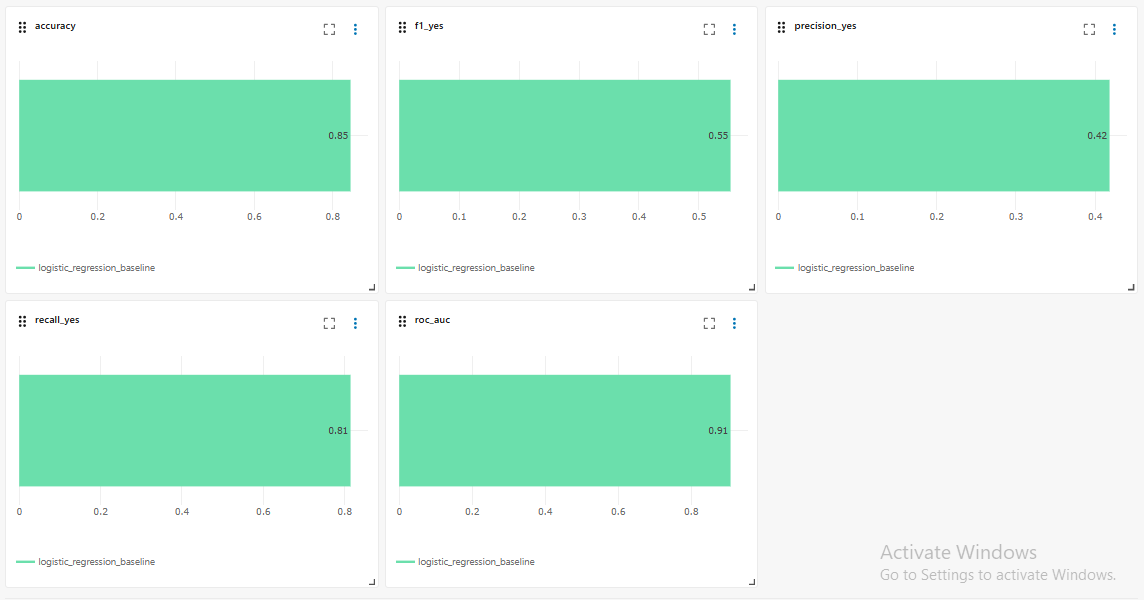
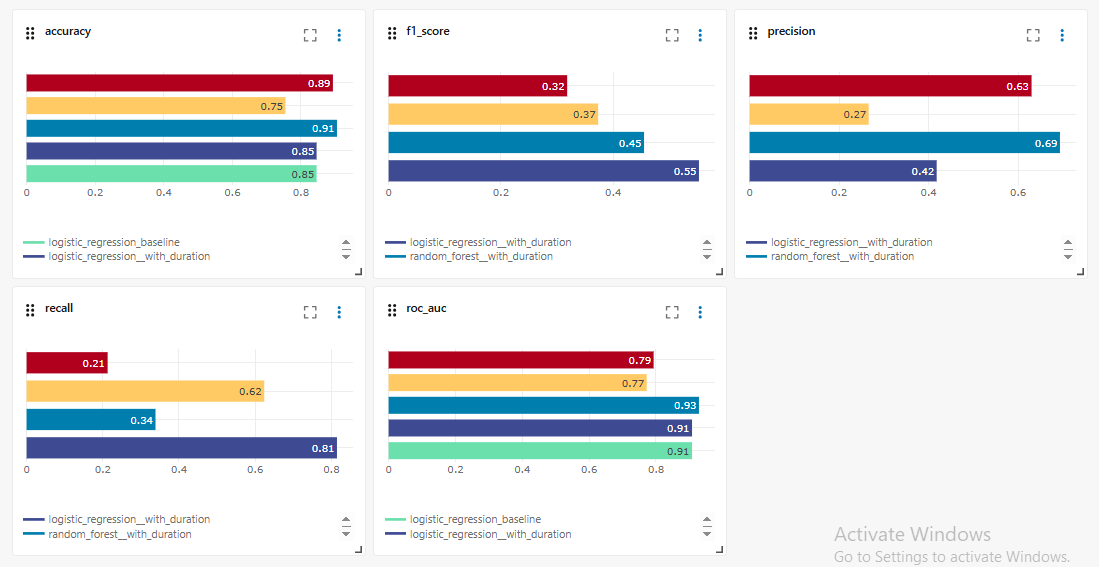
Add duration leakage experiment, log all runs to MLflow, rewrite README

diff --git a/README.md b/README.md
@@ -10,55 +10,75 @@ The dataset is the UCI Bank Marketing dataset, which records the outcome of dire
 
 Only a small fraction of contacted customers actually subscribe. In the held-out test set, 1,058 of 9,043 customers did, about 11.7 percent. That imbalance makes accuracy misleading. A model that predicts "no" for every single customer would still score 88.3 percent accuracy while being completely useless, because it would never identify anyone worth calling.
 
-What matters commercially is **recall on the positive class**. A customer who would have subscribed but is never contacted is lost revenue. A customer who is contacted and declines costs a few minutes of an agent's time. The two errors are not equally expensive.
+What matters commercially is **recall on the positive class**. A customer who would have subscribed but is never contacted is lost revenue. A customer who is contacted and declines costs a few minutes of an agent's time. The two errors are not equally expensive, so the model is selected on F1 over the positive class rather than on accuracy.
 
-That asymmetry drives the model choice below.
+---
 
-## Model comparison
+## Measuring a leaking feature
 
-Both candidates were trained on the same split and logged to MLflow.
+The dataset includes a `duration` column recording how long the marketing call lasted. The value only exists **after** the call has finished, so a model using it cannot decide who to call. It is the best-known trap in this dataset, and models trained with it report scores that cannot be reproduced in production.
+
+Rather than note the problem and move on, this project measures it. Both candidate models are trained twice, with and without the feature, and all four runs are logged to MLflow.
+
+### With `duration` (not deployable)
 
 | Model | Accuracy | Precision | Recall | F1 | ROC-AUC |
 |---|---|---|---|---|---|
-| **Logistic Regression** | 0.8457 | 0.4182 | **0.8147** | **0.5527** | 0.9079 |
-| Random Forest | **0.9051** | **0.6938** | 0.3384 | 0.4549 | **0.9286** |
+| Logistic Regression | 0.8457 | 0.4182 | 0.8147 | **0.5527** | 0.9079 |
+| Random Forest | 0.9051 | 0.6938 | 0.3384 | 0.4549 | 0.9286 |
 
-### Why Logistic Regression was selected
+### Without `duration` (deployable)
 
-Random Forest wins on accuracy, precision and ROC-AUC, so on a quick glance it looks like the better model. It is not the right choice here.
+| Model | Accuracy | Precision | Recall | F1 | ROC-AUC |
+|---|---|---|---|---|---|
+| **Logistic Regression** | 0.7548 | 0.2662 | 0.6238 | **0.3732** | 0.7722 |
+| Random Forest | 0.8933 | 0.6303 | 0.2127 | 0.3180 | 0.7929 |
 
-Its recall is 0.3384, meaning it **misses roughly two thirds of the customers who would have subscribed**. Logistic Regression catches 81 percent of them. Given that a missed subscriber is lost revenue and a wasted call is not, that difference outweighs the accuracy gap.
+### The cost of removing it
 
-Logistic Regression also produces the better F1 on the positive class, 0.5527 against 0.4549, so it is the better balanced model where it counts. Class weighting was used to compensate for the imbalance during training.
+| Model | Accuracy | Precision | Recall | F1 | ROC-AUC |
+|---|---|---|---|---|---|
+| Logistic Regression | -0.0909 | -0.1520 | -0.1909 | **-0.1795** | -0.1357 |
+| Random Forest | -0.0118 | -0.0635 | -0.1257 | **-0.1369** | -0.1357 |
 
-Two further points in its favour. Coefficients are directly interpretable, which matters in a regulated setting where a bank may need to explain why a customer was targeted. And inference is cheap, which keeps the serving path simple.
+Logistic Regression loses a third of its F1, falling from 0.5527 to 0.3732. Recall drops from catching 81 percent of subscribers to 62 percent.
 
-Random Forest's higher ROC-AUC, 0.9286 against 0.9079, says it ranks customers slightly better overall. If the business wanted a ranked call list rather than a yes-or-no decision, that would be worth revisiting with a tuned decision threshold.
+The ROC-AUC column is the clearest evidence. Both models lose **exactly 0.1357**, despite being entirely different algorithms. ROC-AUC does not depend on where the decision threshold sits, so that identical fall measures pure information loss rather than a shift in calibration. Roughly 0.14 of apparent performance was coming from a feature unavailable at decision time.
+
+![MLflow run comparison](docs/mlflow-runs.png)
+
+**0.3732 is the honest number for this project.** The 0.5527 version is reported here for comparison only.
+
+---
+
+## Why Logistic Regression was selected
+
+Selection is made on the realistic scenario, so the chosen model is the better of the two **without** `duration`.
+
+Logistic Regression wins on F1, 0.3732 against 0.3180. The gap comes almost entirely from recall: 0.6238 against 0.2127. Random Forest misses close to four out of five subscribers, which defeats the purpose of the model however good its accuracy looks.
+
+Random Forest does hold a higher accuracy, 0.8933 against 0.7548, and a marginally higher ROC-AUC. Its accuracy advantage is largely an artefact of the imbalance, since predicting "no" is right 88.3 percent of the time by default. Its ROC-AUC edge suggests it ranks customers slightly better, so if the business wanted a ranked call list rather than a yes-or-no decision, it would be worth revisiting with a tuned threshold.
+
+Two further points favour Logistic Regression. Coefficients are directly interpretable, which matters in a regulated setting where a bank may need to explain why a customer was targeted. And inference is cheap, which keeps the serving path simple.
 
 ### What the errors look like
 
 ![Confusion matrix](docs/confusion-matrix.png)
 
-Across 9,043 held-out customers, 1,058 actually subscribed.
+The matrix above is from the model trained **with** `duration`, across 9,043 held-out customers of whom 1,058 subscribed.
 
 | | Predicted no | Predicted yes |
 |---|---|---|
 | **Actually no** | 6,786 | 1,199 |
 | **Actually yes** | 196 | 862 |
 
-The model catches 862 of the 1,058 real subscribers and misses 196. The price is 1,199 customers flagged who would not have subscribed.
-
-That trade is the whole argument in one picture. Those 1,199 false positives are wasted calls. The 196 misses are lost sales. Choosing Logistic Regression means accepting more of the cheaper mistake to avoid the expensive one.
-
-Training runs are tracked in MLflow with parameters, metrics and the fitted model.
-
-![MLflow run metrics](docs/mlflow-runs.png)
+It catches 862 of the 1,058 real subscribers and misses 196, at the price of 1,199 customers flagged who would not have subscribed. Those 1,199 false positives are wasted calls and the 196 misses are lost sales. Favouring recall means accepting more of the cheaper mistake to avoid the expensive one.
 
 ---
 
 ## Pipeline
 
-The pipeline is defined in `dvc.yaml` as four stages. DVC tracks the dependencies between them, so changing one file re-runs only the stages affected by it.
+Defined in `dvc.yaml` as four stages. DVC tracks the dependencies between them, so changing one file re-runs only the stages affected by it.
 
 ```
 data/raw/bank-full.csv
@@ -86,11 +106,17 @@ data/raw/bank-full.csv
               confusion matrix, classification report, metrics.json
 ```
 
-Reproduce the whole thing with one command.
-
 ```bash
 dvc repro
 ```
+
+The leakage experiment runs separately, since it is an analysis rather than a pipeline stage:
+
+```bash
+python src/models/compare_models.py
+```
+
+That writes `reports/metrics/model_comparison.json`, `model_comparison_no_duration.json` and `duration_leakage_report.json`, and logs four runs to MLflow.
 
 ## Serving
 
@@ -102,7 +128,7 @@ dvc repro
 | `/health` | GET | Reports whether the model file loaded |
 | `/predict` | POST | Returns the predicted class and the probability of "yes" |
 
-The service starts even when the model file is absent. `/health` then reports `model_loaded: false` and `/predict` returns a 503 with a clear message, rather than the process crashing on startup. This is deliberate: a service that fails to boot tells an operator nothing, while one that starts and reports its own state can be diagnosed.
+The service starts even when the model file is absent. `/health` then reports `model_loaded: false` and `/predict` returns a 503 with a clear message, rather than the process crashing on startup. A service that fails to boot tells an operator nothing, while one that starts and reports its own state can be diagnosed.
 
 ---
 
@@ -155,13 +181,9 @@ curl -X POST http://localhost:8000/predict \
   }'
 ```
 
-Response:
-
 ```json
 {"prediction": "no", "probability_yes": 0.1815}
 ```
-
-The same request through the interactive documentation at `/docs`:
 
 ![API prediction](docs/api-predict.png)
 
@@ -176,7 +198,7 @@ docker run -p 8000:8000 bank-marketing-mlops
 
 ## Experiment tracking
 
-Training runs are logged to MLflow with parameters, metrics and the fitted model. View them locally with:
+Runs are logged to MLflow under the experiment `bank-marketing-model-comparison`, with the model name, scenario, feature count and row counts as parameters.
 
 ```bash
 mlflow ui
@@ -205,11 +227,11 @@ configs/              model configuration
 data/raw/             source dataset (DVC tracked)
 data/processed/       pipeline outputs (DVC tracked)
 src/data/             inspection and splitting
-src/models/           model comparison and evaluation
+src/models/           model comparison, leakage experiment, evaluation
 src/pipelines/        final training, MLflow logging
 src/api/              FastAPI prediction service
 models/               trained model artefacts (DVC tracked)
-reports/metrics/      metrics and classification reports
+reports/metrics/      metrics, comparisons and the leakage report
 reports/figures/      confusion matrix
 tests/                pytest suite
 dvc.yaml              pipeline definition
@@ -221,17 +243,15 @@ Dockerfile            container image for the API
 
 ## Known limitations
 
-**The `duration` feature leaks information.** It records how long the call lasted, which is only known after the call has finished. A model using it cannot be deployed for deciding who to call. The UCI documentation flags this, and the realistic next step is to retrain without it and report the drop, since that number is the honest measure of what this model could achieve in production.
+**The DVC training stage still includes `duration`.** The leakage experiment in `src/models/compare_models.py` selects and saves a model trained without it, but `src/pipelines/train_final_model.py`, which produces the artefact the API serves, has not yet been aligned. Bringing the serving path onto the deployable model is the next change.
 
-**Precision is low on the positive class.** At 0.4182, fewer than half the flagged customers actually subscribe. That is the deliberate cost of favouring recall, but it means a campaign built on these predictions would still involve a substantial number of unproductive calls.
+**Precision is low on the deployable model.** At 0.2662, roughly one in four flagged customers actually subscribes. That is the deliberate cost of favouring recall, but a campaign built on these predictions would involve a large number of unproductive calls. Whether that trade is worth making depends on the real cost of a call against the value of a subscription.
 
 **The decision threshold is untuned.** Predictions use the default 0.5 cut-off. Since probabilities are already produced, sweeping the threshold against the test set would allow the precision and recall balance to be chosen deliberately rather than inherited.
 
 **The DVC remote is local.** Data and model artefacts cannot be pulled from a fresh clone. A shared remote such as S3 or Azure Blob Storage would make the pipeline fully reproducible for anyone.
 
 **Single train/test split.** Results come from one hold-out split of 9,043 records rather than cross-validation, so the figures carry more variance than they appear to.
-
-**Only the selected model is logged to MLflow.** The comparison between Logistic Regression and Random Forest is written to `reports/metrics/model_comparison.json` rather than tracked as two MLflow runs. Logging both would make the comparison visible in the MLflow UI, which is what the tool is for.
 
 ## Licence
 
